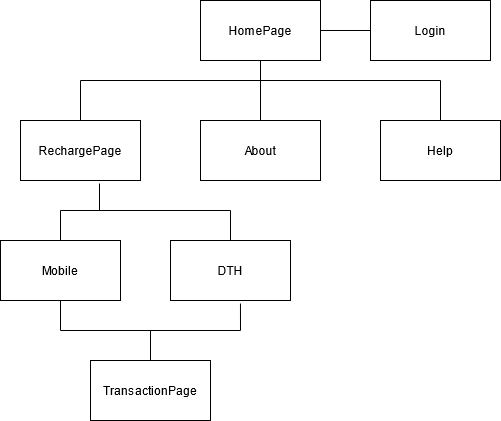
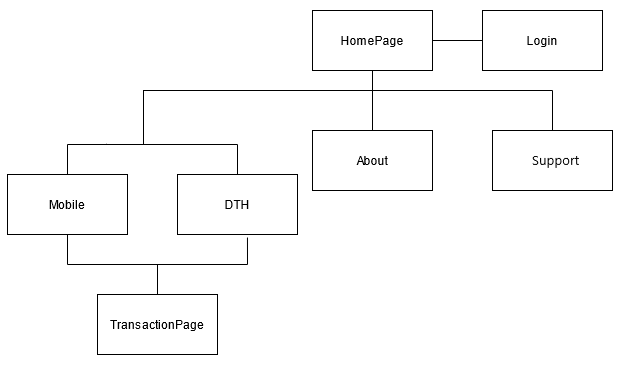
changes

diff --git a/webpages/signup.html b/webpages/signup.html
@@ -3,6 +3,7 @@
 	<head>
 		<meta charset="UTF-8">
 		<link rel="icon" type="image/png" href="../images/icon/cobra.png">
+		<script src="../js/signup.js"></script>
 		<title>SerpentCharge-Sign Up</title>
 	</head>
 	<body>
@@ -10,7 +11,24 @@
 			<a href="../index.html" target="_self">Home</a>
 		</header>
 		<main>
-			
+			<h1>Sign Up</h1>
+			<form>
+				<input type="text" id="fname" name="fname" placeholder="First Name" required>
+				<input type="text" id="lname" name="lname" placeholder="Last Name" required>
+				<br>
+				<label><input type="radio" id="male" name="gender" value="male" required>Male</label>
+				<label><input type="radio" id="female" name="gender" value="female" required>Female</label>
+				<label><input type="radio" id="other" name="gender" value="other" required>Other</label>
+				<br>
+				<input type="email" id="email" placeholder="E-mail" required>
+				<br>
+				<input type="password" id="password" placeholder="Password" required>
+				<br>
+				<input type="password" id="r_password" placeholder="Retype Password" required onchange="checkPass()">
+				<br>
+				<input type="submit" value="Sign Up" onclick="return checkPass()">
+			</form>
+			<p>Already have an account? <a href="login.html">Log In</a></p>
 		</main>
 		<footer>
 			<p>&copy;SerpentCharge</p>

diff --git a/index.html b/index.html
@@ -3,11 +3,14 @@
 	<head>
 		<meta charset="UTF-8">
 		<link rel="icon" type="image/png" href="images/icon/cobra.png">
+		<link rel="stylesheet" href="css/serpentcharge.css">
+		<script src="js/recharge.js"></script>
 		<title>SerpentCharge</title>
 	</head>
 	<body>
 		<header>
 			<nav>
+				<a href="index.html" target="_self"><img src="images/icon/cobra.png" width="3%"></a>
 				<ul>
 					<li><a href="webpages/about.html" target="_self">About</a></li>
 					<li><a href="webpages/support.html" target="_self">Support</a></li>

diff --git a/webpages/login.html b/webpages/login.html
@@ -10,7 +10,15 @@
 			<a href="../index.html" target="_self">Home</a>
 		</header>
 		<main>
-			
+			<h1>Log In</h1>
+			<form>
+				<input type="email" placeholder="Registerd E-mail" required>
+				<br>
+				<input type="password" placeholder="Password" required>
+				<br>
+				<input type="submit" value="Log In">
+			</form>
+			<p>Don't have an account? <a href="signup.html">Sign up</a></p>
 		</main>
 		<footer>
 			<p>&copy;SerpentCharge</p>

diff --git a/webpages/support.html b/webpages/support.html
@@ -10,7 +10,13 @@
 			<a href="../index.html" target="_self">Home</a>
 		</header>
 		<main>
-			
+			<label for="sub">Complaint Subject</label>
+			<input type="text" id="sub" name="subject" required>
+			<br>
+			<label for="com">Complaint Description</label><br>
+			<input type="text" id="com" name="complaint" required>
+			<br>
+			<input type="submit" value="Submit">
 		</main>
 		<footer>
 			<p>&copy;SerpentCharge</p>

diff --git a/webpages/plans.html b/webpages/plans.html
@@ -12,7 +12,7 @@
 		<main>
 			<table>
 				<tr>
-					<th>Plan Description</th><th>Amount</th>
+					<th>Plan Description</th><th>Validity</th><th>Amount</th><th>Service Tax</th>
 				</tr>
 			</table>
 		</main>

diff --git a/js/signup.js b/js/signup.js
@@ -1,0 +1,6 @@
+function checkPass(){
+    if(document.getElementById('password').value!=document.getElementById('r_password').value){
+        alert("password didn't match");
+        return false;
+    }
+}

diff --git a/css/serpentcharge.css b/css/serpentcharge.css
@@ -1,0 +1,3 @@
+body{
+    background-color: #5cdb95;
+}
